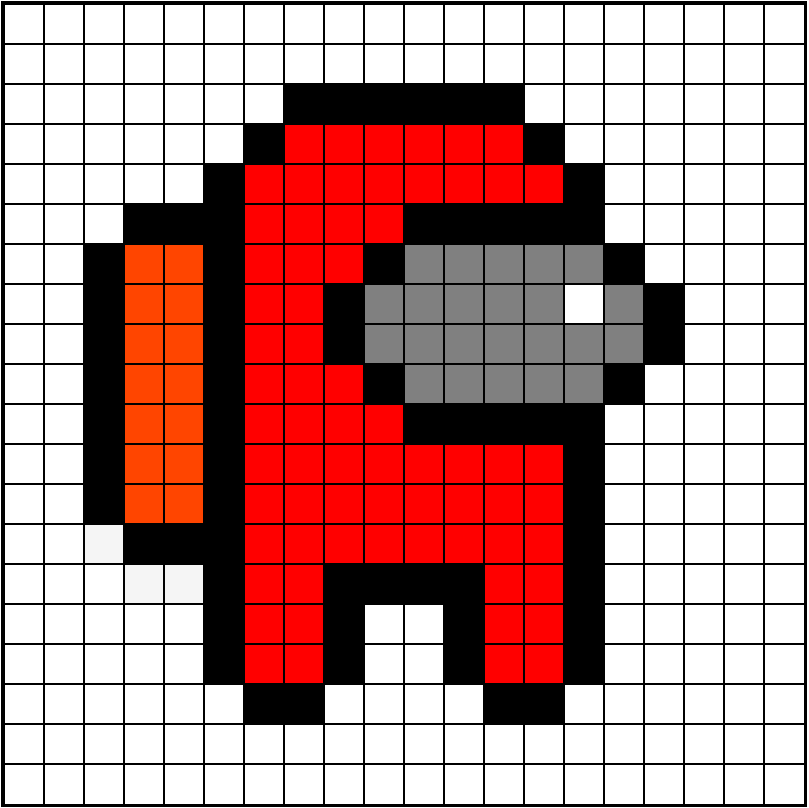
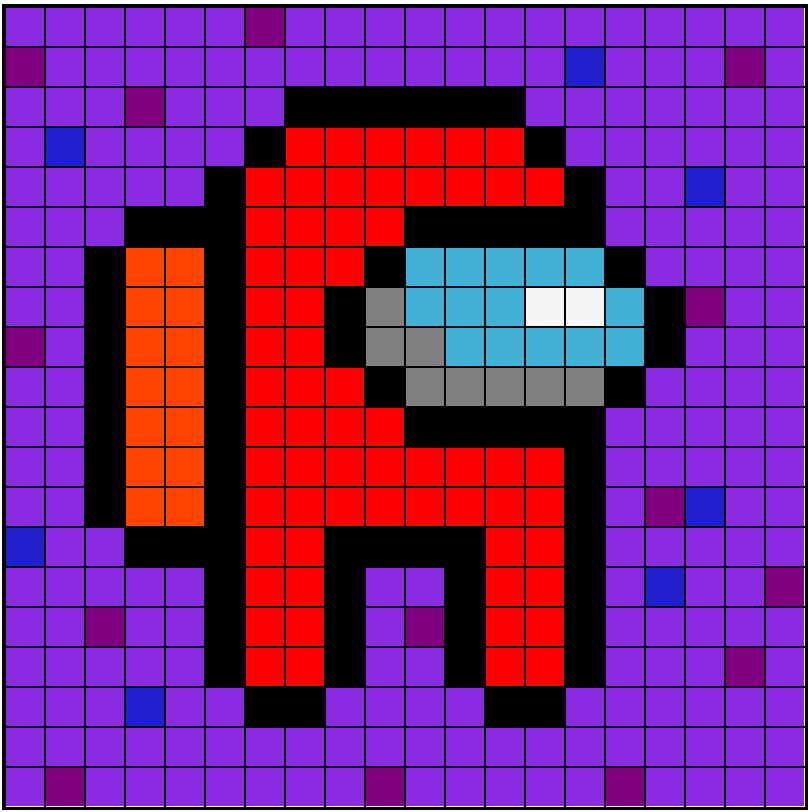
added new pic

diff --git a/pictureArrays.js b/pictureArrays.js
@@ -3,6 +3,7 @@ let rainbowHeartArray = [];
 let freeplayArray = [];
 let okArray = [];
 let helloWorldArray = [];
+let susArray = [];
 // rainbowHeartArray coordinates
 for (let x = 0; x <= 800; x += 40) {
     for (let y = 0; y <= 800; y += 40) {
@@ -269,6 +270,64 @@ for (let x = 0; x <= 800; x += 40) {
             default:
                 let xi = new CheckablePixel(x, y, "black", 5, "green");
                 helloWorldArray.push(xi);
+                break;
+        }
+    }
+}
+for (let x = 0; x <= 800; x += 40) {
+    for (let y = 0; y <= 800; y += 40) {
+        switch (true) {
+            case (x === 160 && (y >= 280 && y <= 520)):
+            case (x === 200 && (y >= 280 && y <= 520)):
+                let ea = new CheckablePixel(x, y, "black", 1, "orangered");
+                susArray.push(ea);
+                break;
+            case ((x === 600 || x === 560) && y === 320):
+                let eb = new CheckablePixel(x, y, "black", 13, "whitesmoke");
+                susArray.push(eb);
+                break;
+            case (x === 400 && (y >= 320 && y <= 360)):
+            case (x === 440 && (y >= 360 && y <= 400)):
+            case ((x >= 480 && x <= 600) && y === 400):
+                let ec = new CheckablePixel(x, y, "black", 11, "grey");
+                susArray.push(ec);
+                break;
+            // light blue
+            case ((x >= 440 && x <= 600) && y === 280):
+            case (x !== 560 && x !== 600 && (x >= 440 && x <= 640) && y === 320):
+            case ((x >= 480 && x <= 640) && y === 360):
+                let ed = new CheckablePixel(x, y, "black", 6, "rgb(66, 175, 212)");
+                susArray.push(ed);
+                break;
+            case (x === 280 && (y >= 200 && y <= 680)):
+            case (x === 320 && (y >= 160 && y <= 680)):
+            case (x == 360 && y !== 320 && y !== 360 && (y >= 160 && y <= 520)):
+            case (x === 400 && ((y >= 160 && y < 280) || (y > 400 && y <= 520))):
+            case ((x === 440 || x === 480) && ((y >= 160 && y <= 200) || (y >= 480 && y <= 520))):
+            case (x === 520 && ((y >= 160 && y <= 200) || (y >= 480 && y <= 680))):
+            case (x === 560 && (y === 200 || (y >= 480 && y <= 680))):
+                let ee = new CheckablePixel(x, y, "black", 0, "red");
+                susArray.push(ee);
+                break;
+            // black
+            case (x === 120 && (y >= 280 && y <= 520)):
+            case (x === 240 && (y >= 200 && y <= 680)):
+            case ((x >= 320 && x <= 520) && y === 120):
+            case ((x === 160 || x === 200) && (y === 240 || y === 560)):
+            case ((x === 280 || x === 560) && y === 160):
+            case ((x >= 360 && x <= 480) && y === 560):
+            case ((x >= 440 && x <= 600) && (y === 240 || y === 440)):
+            case ((x === 360 || x === 680) && (y === 320 || y === 360)):
+            case (x === 600 && (y === 200 || (y >= 480 && y <= 680))):
+            case ((x === 360 || x === 480) && (y >= 600 && y <= 680)):
+            case (((x >= 280 && x <= 320) || (x >= 520 && x <= 560)) && y === 720):
+            case ((x === 400 || x === 640) && (y === 280 || y === 400)):
+                let ef = new CheckablePixel(x, y, "black", 14, "black");
+                susArray.push(ef);
+                break;
+            default:
+                let eg = new CheckablePixel(x, y, "black", 8, "blueviolet");
+                susArray.push(eg);
                 break;
         }
     }

diff --git a/pictureArrays.ts b/pictureArrays.ts
@@ -2,6 +2,7 @@ let rainbowHeartArray = [];
 let freeplayArray = [];
 let okArray = [];
 let helloWorldArray = [];
+let susArray = [];
 
 // rainbowHeartArray coordinates
 for(let x = 0; x <= 800; x += 40){
@@ -276,6 +277,69 @@ for(let x = 0; x <= 800; x += 40){
         }
     }
 }
+
+
+
+for(let x = 0; x <= 800; x += 40){
+    for (let y = 0; y <= 800; y += 40){
+        switch(true){
+            case(x === 160 && (y >= 280 && y <= 520)):
+            case(x === 200 && (y >= 280 && y <= 520)):
+                let ea : CheckablePixel = new CheckablePixel(x, y, "black", 1, "orangered");
+                susArray.push(ea);
+                break;
+            case((x === 600 || x === 560) && y === 320):
+                let eb : CheckablePixel = new CheckablePixel(x, y, "black", 13, "whitesmoke");
+                susArray.push(eb);
+                break;
+            case(x === 400 && (y >= 320 && y <= 360)):
+            case(x === 440 && (y >= 360 && y <= 400)):
+            case((x >= 480 && x <= 600) && y === 400):
+                let ec : CheckablePixel = new CheckablePixel(x, y, "black", 11, "grey");
+                susArray.push(ec);
+                break;
+            // light blue
+            case((x >= 440 && x <= 600) && y === 280):
+            case(x !== 560 && x !== 600 && (x >= 440 && x <= 640) && y === 320):
+            case((x >= 480 && x <= 640) && y === 360):
+                let ed : CheckablePixel = new CheckablePixel(x, y, "black", 6, "rgb(66, 175, 212)");
+                susArray.push(ed);
+                break;
+            case(x === 280 && (y >= 200 && y <= 680)):
+            case(x === 320 && (y >= 160 && y <= 680)):
+            case(x == 360 && y !== 320 && y !== 360 && (y >= 160 && y <= 520)):
+            case(x === 400 && ((y >= 160 && y < 280) || (y > 400 && y <= 520))):
+            case((x === 440 || x === 480) && ((y >= 160 && y <= 200 ) || (y >= 480 && y <= 520))):
+            case(x === 520 && ((y >= 160 && y <= 200) || (y >= 480 && y <= 680))):
+            case(x === 560 && (y === 200 || (y >= 480 && y <= 680))):
+                let ee : CheckablePixel = new CheckablePixel(x, y, "black", 0, "red");
+                susArray.push(ee);
+                break;
+            // black
+            case(x === 120 && (y >= 280 && y <= 520)):
+            case(x === 240 && (y >= 200 && y <= 680)):
+            case((x >= 320 && x <= 520) && y === 120):
+            case((x === 160 || x === 200) && (y === 240 || y === 560)):
+            case((x === 280 || x === 560) && y === 160):
+            case((x >= 360 && x <= 480) && y === 560):
+            case((x >= 440 && x <= 600) && (y === 240 || y === 440)):
+            case((x === 360 || x === 680) && (y === 320 || y === 360)):
+            case(x === 600 && (y === 200 || (y >= 480 && y <= 680))):
+            case((x === 360 || x === 480) && (y >= 600 && y <= 680)):
+            case(((x >= 280 && x <= 320) || (x >= 520 && x <= 560)) && y === 720):
+            case((x === 400 || x === 640) && (y === 280 || y === 400)):
+                let ef : CheckablePixel = new CheckablePixel(x, y, "black", 14, "black");
+                susArray.push(ef);
+                break;
+            default:
+                let eg : CheckablePixel = new CheckablePixel(x, y, "black", 8, "blueviolet");
+                susArray.push(eg);
+                break;
+        }
+    }
+}
+
+
 
 
 for(let x = 0; x <= 800; x += 40){

diff --git a/array_organizer.js b/array_organizer.js
@@ -4,7 +4,6 @@
 let freeplayBtn = document.querySelector("#freeplay");
 let randBtn = document.querySelector("#surprise");
 let options = [];
-let helloWorldBtn = document.querySelector("#helloWorld");
 document.querySelectorAll(".pgSelection").forEach(function (elm) {
     options.push(elm.dataset.key);
     elm.addEventListener("click", function (event) {
@@ -14,13 +13,10 @@ document.querySelectorAll(".pgSelection").forEach(function (elm) {
     console.log(options);
 });
 randBtn.addEventListener("click", function () {
-    addToStorage(options[Math.floor(Math.random() * 2)]);
+    addToStorage(options[Math.floor(Math.random() * options.length)]);
 });
 freeplayBtn.addEventListener("click", function () {
     addToStorage("freeplay");
-});
-helloWorldBtn.addEventListener("click", function () {
-    addToStorage("helloWorld");
 });
 function addToStorage(correct) {
     sessionStorage.setItem("first", correct);

diff --git a/array_organizer.ts b/array_organizer.ts
@@ -3,7 +3,6 @@
 let freeplayBtn = document.querySelector("#freeplay") as HTMLButtonElement;
 let randBtn = document.querySelector("#surprise") as HTMLButtonElement;
 let options : string[] = [];
-let helloWorldBtn = document.querySelector("#helloWorld") as HTMLButtonElement;
 
 
 document.querySelectorAll<HTMLElement>(".pgSelection").forEach(function(elm){
@@ -17,17 +16,13 @@ document.querySelectorAll<HTMLElement>(".pgSelection").forEach(function(elm){
 
 
 randBtn.addEventListener("click", function() {
-    addToStorage(options[Math.floor(Math.random() * 2)]);
+    addToStorage(options[Math.floor(Math.random() * options.length)]);
 })
 
 freeplayBtn.addEventListener("click", function() {
     addToStorage("freeplay");
 })
 
-
-helloWorldBtn.addEventListener("click", function() {
-    addToStorage("helloWorld");
-})
 
 function addToStorage(correct : string) : void{
     sessionStorage.setItem("first", correct);

diff --git a/index.html b/index.html
@@ -16,8 +16,9 @@
         <button id="freeplay"> <img src="free.png" height="80", width="90"></button>
         <button class="pgSelection" data-key="rainbowHeart"><img src="rainbowHeart.png" height = "95", width = "90"></button>
         <button class="pgSelection" data-key="ok"><img src="ok.png" height = "95" width = "90"></button>
-        <button class="pgSelection" data-key="helloWorld"><img src="helloWorld.png"></button>
-        <button id="surprise">Surprise me!</button>
+        <button class="pgSelection" data-key="helloWorld"><img src="helloWorld.png" height = "95" width = "90"></button>
+        <button class="pgSelection" data-key="sus"><img src="sus.png" height = "95" width = "90"></button>
+        <button id="surprise"><img src="surprise.png" height = "95" width = "90"></button>
     </div>
     <!-- <a href = someotherfile>Color by Number</a> -->
     <script>var exports = {};</script>

diff --git a/eventHandler.js b/eventHandler.js
@@ -20,6 +20,9 @@ if (cor === "helloWorld") {
     selectedArray = helloWorldArray;
     console.log(helloWorldArray);
 }
+if (cor === "sus") {
+    selectedArray = susArray;
+}
 // filling pixelsList for freeplay screen
 for (let x = 0; x <= canvas.height; x += 40) {
     for (let y = 0; y <= canvas.width; y += 40) {

diff --git a/eventHandler.ts b/eventHandler.ts
@@ -20,6 +20,9 @@ if (cor === "helloWorld") {
     selectedArray = helloWorldArray;
     console.log(helloWorldArray);
 }
+if (cor === "sus"){
+    selectedArray = susArray;
+}
 
 // filling pixelsList for freeplay screen
 for(let x = 0; x <= canvas.height; x += 40){
